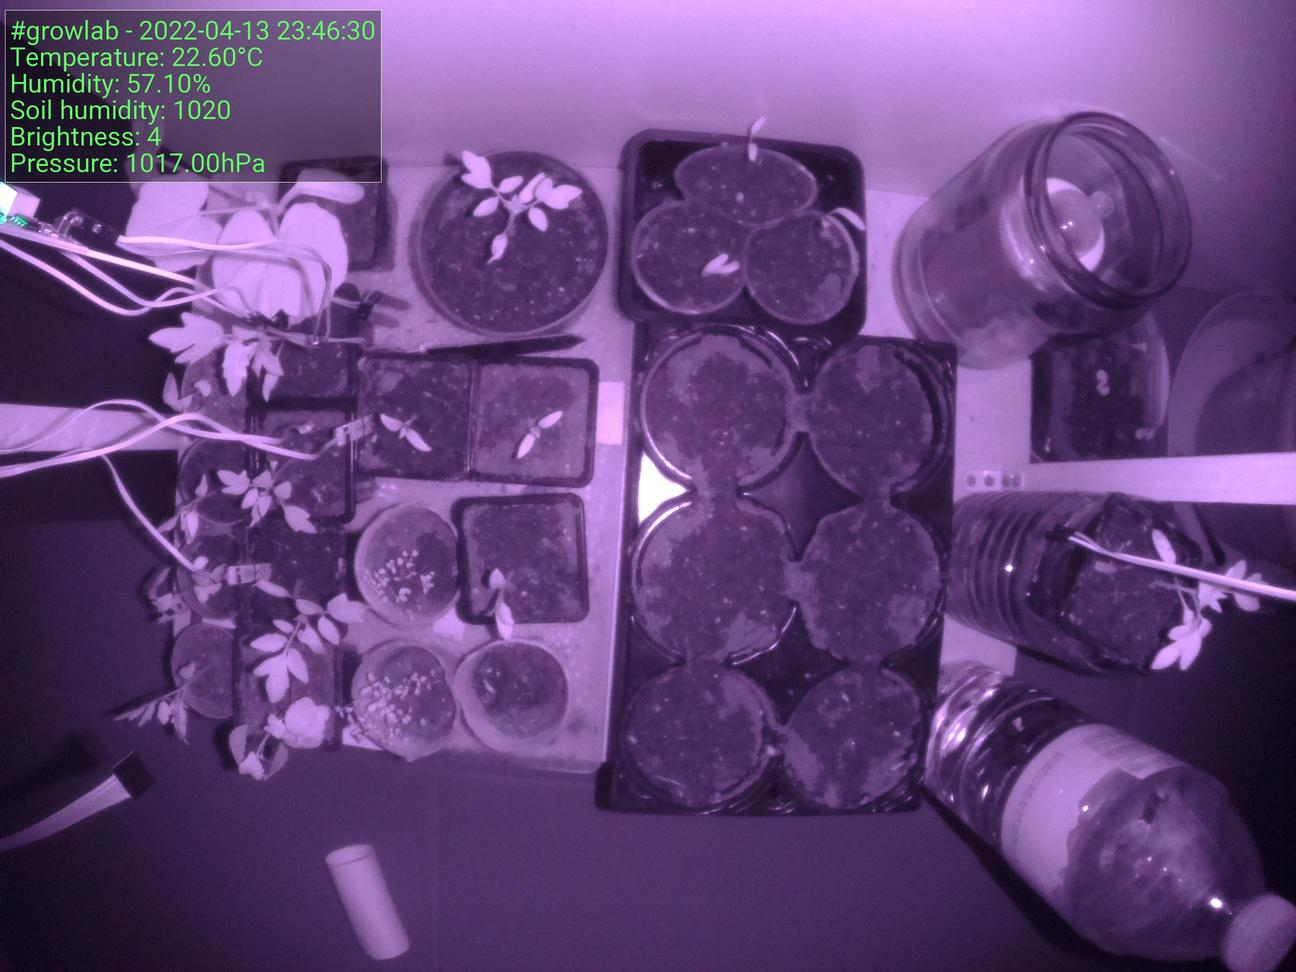
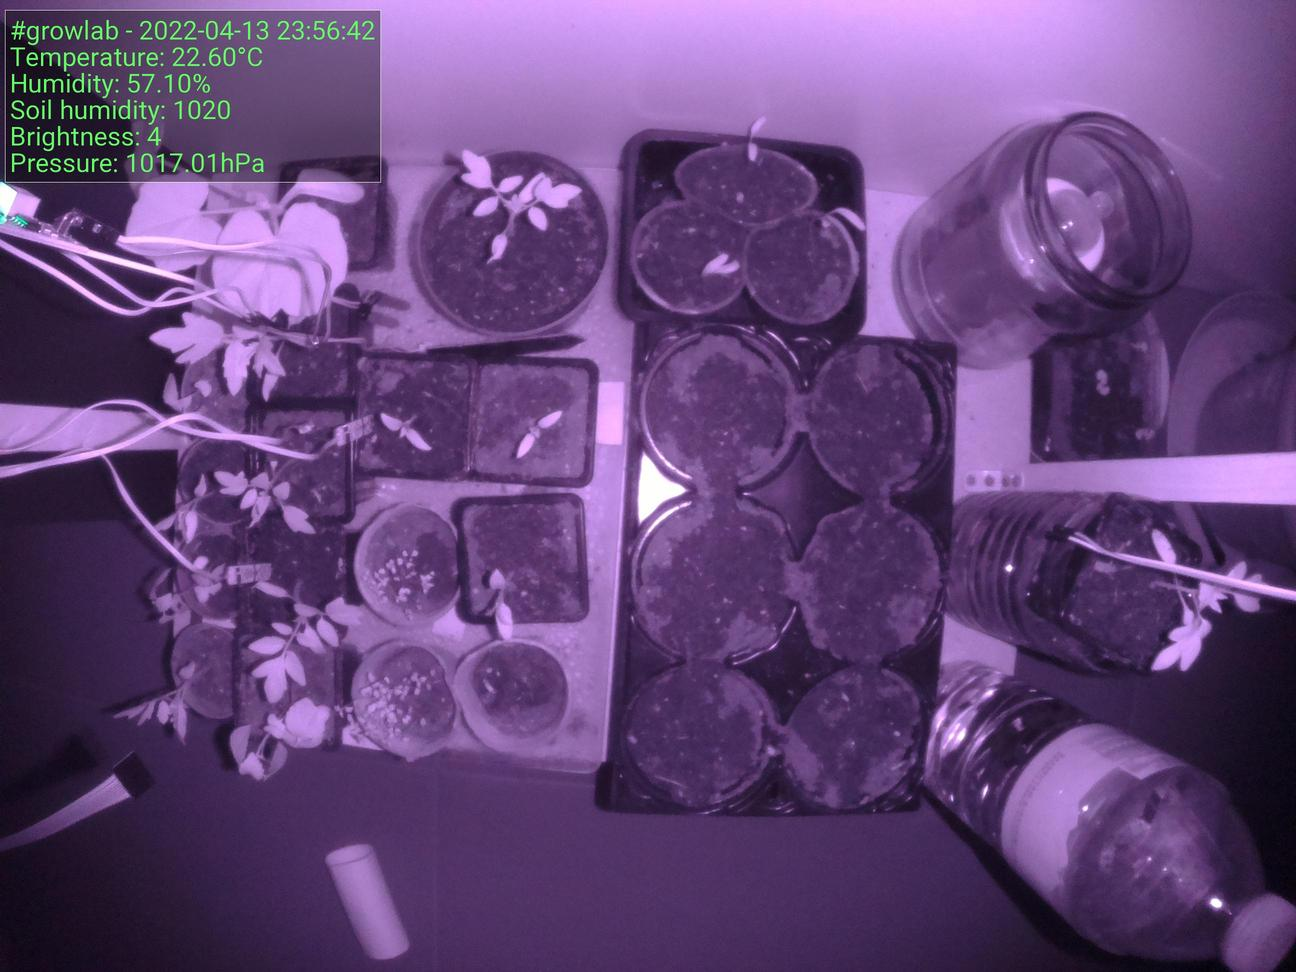
:bento: Update preview

diff --git a/index.html b/index.html
@@ -39,7 +39,7 @@
                     <tbody>
                         <tr>
                             <td>Time</td>
-                            <td>2022-04-13 23:46:30</td>
+                            <td>2022-04-13 23:56:42</td>
                         </tr>
                         <tr>
                             <td>Temperature</td>
@@ -55,7 +55,7 @@
 
                 <h5>Latest image</h5>
 		<div style="width: 85%;">
-	                <img class="figure-img img-fluid rounded" src="./preview.jpg?uid=1649886398.2466757">
+	                <img class="figure-img img-fluid rounded" src="./preview.jpg?uid=1649887009.8785863">
 		</div>
             </div>
         </div>
